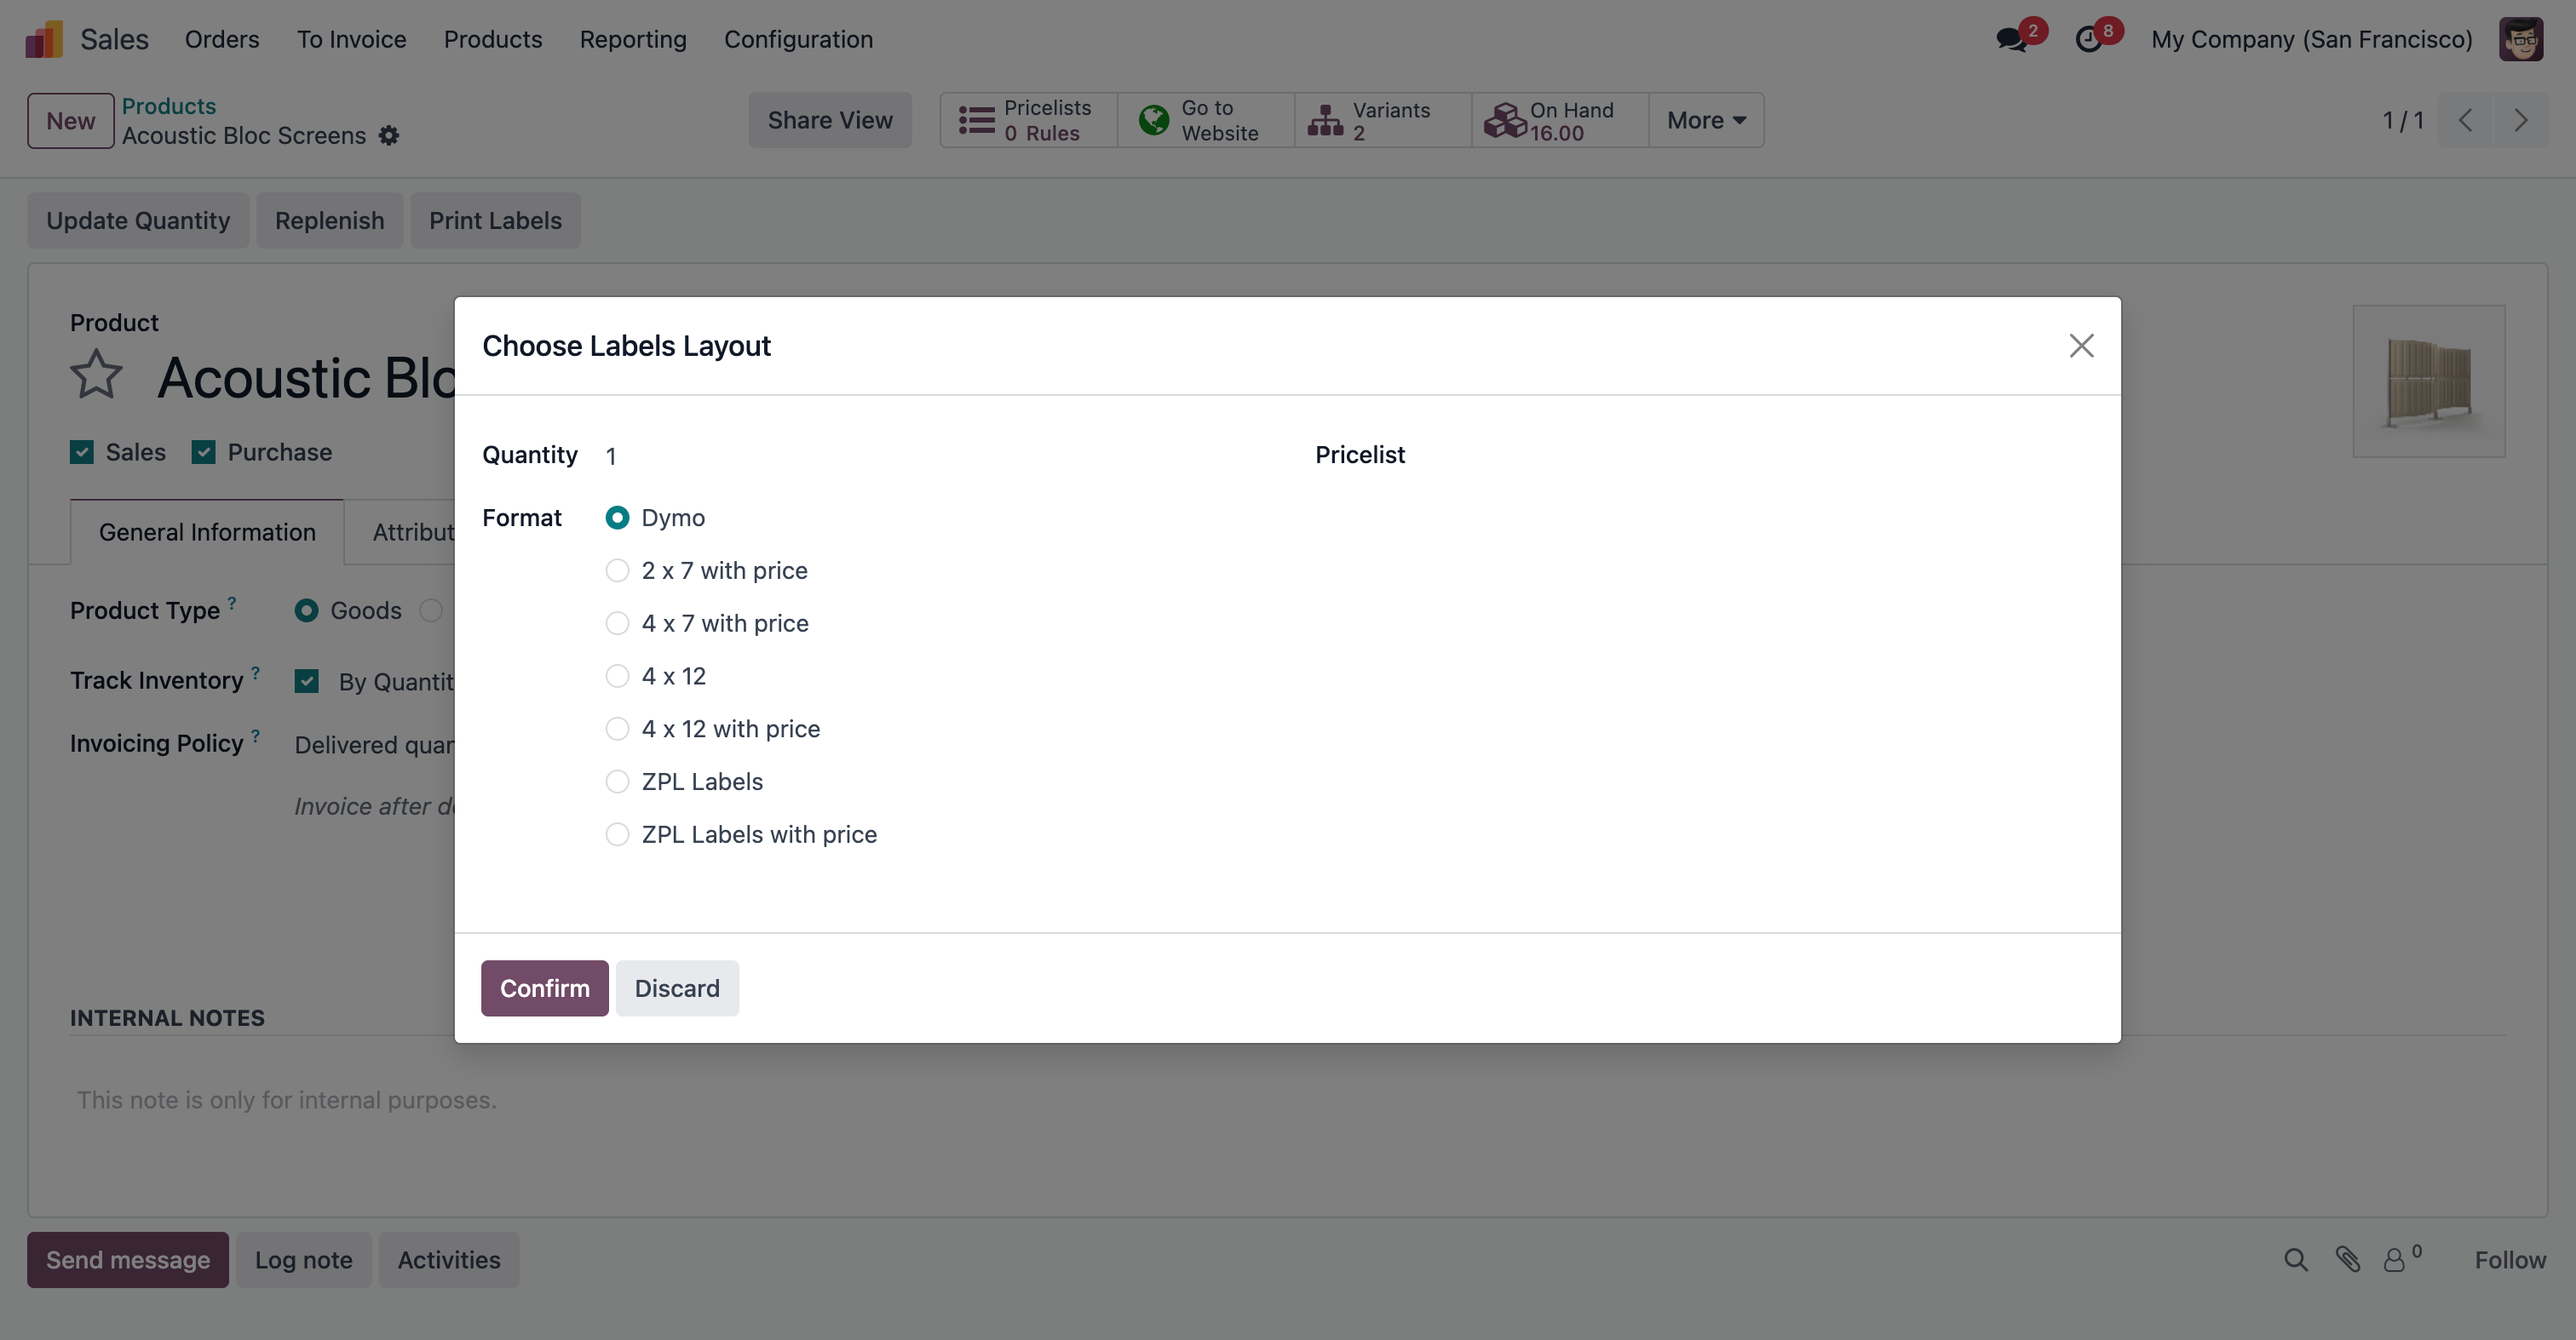
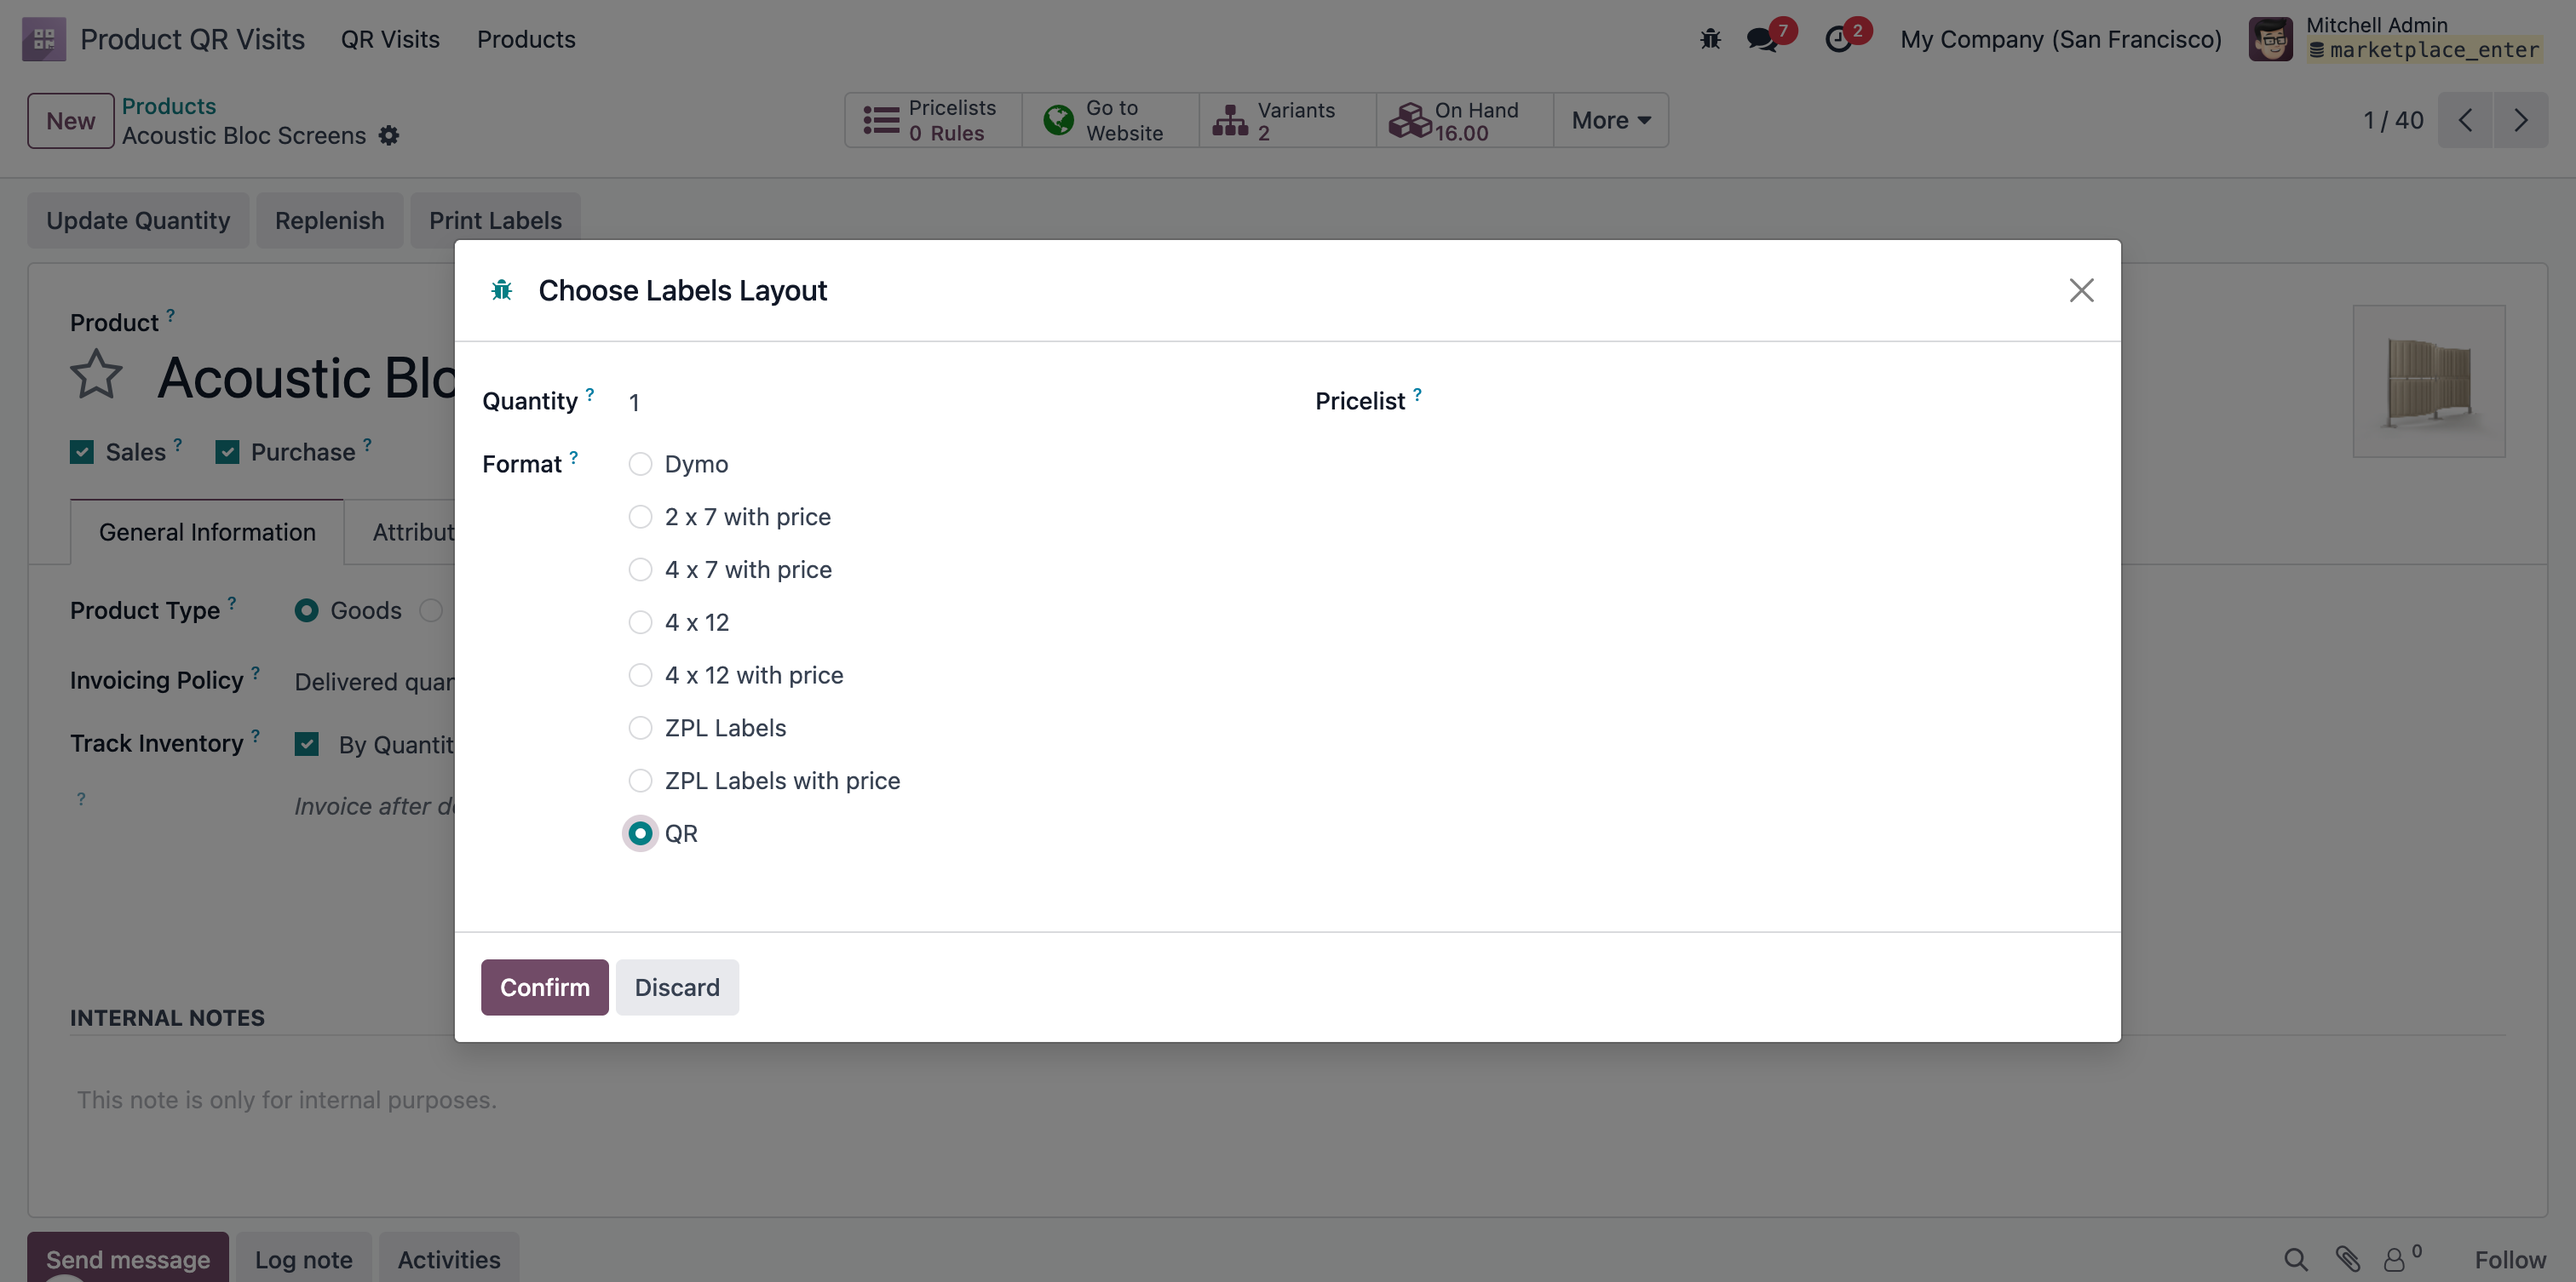
[REM, IMP] Remove share_view and update qr track index

diff --git a/product_qr_track/static/description/index.html b/product_qr_track/static/description/index.html
@@ -1,8 +1,8 @@
-<section class="oe_container pt16 mt16" style="margin-left:calc(-42vw + 50%); width:84%;">
+<section class="oe_container pt16 mt16 mx-auto" style="width:80%;">
     <div class="row o_equal_col_sm"
         style="max-width:1540px; margin:0 auto; background-color:#ebf2f8; padding-bottom:92px; border-radius:15px">
         <div class="" style="display:block; margin:0 auto; max-width:330px; width:80%;"><span
-                style="width:100%;; display:inline-block">
+                style="width:100%; display:inline-block;">
                 <img class="img img-responsive mt24 mb8" src="leofren_logo.svg" style="display:block; margin:0 auto">
             </span>
         </div>
@@ -49,47 +49,6 @@
         </div>
     </div>
 </section>
-<!--HIGHLIGHTS--->
-<!-- <section class="oe_container pb-5">
-    <div class="mt64 mb64">
-        <h2 style="color:#091E42; font-family:&quot;Montserrat&quot;; text-align:center; margin:25px auto; text-transform:uppercase"
-            class="oe_slogan">
-            <b>Highlights</b>
-        </h2>
-        <div class="row">
-            <div class="col-md-6 col-sm-12 mt32">
-                <div class="container shadow" style="border-radius:10px; padding:10px 0px">
-                    <div class="col-md-3" style="float:left">
-                        <img class="img img-responsive" src="screens/Connect-Multiple-Sites.png">
-                    </div>
-                    <div class="col-md-9" style="padding-left:0; float:left; width:70%;">
-                        <h3 class="mt16 mb0" style="font-family:Roboto; font-weight:500; font-size:22px">
-                            Dynamic Template
-                        </h3>
-                        <p class=" mt8" style="font-family:Roboto;">
-                            Integrate trackable link with QR code template.
-                        </p>
-                    </div>
-                </div>
-            </div>
-            <div class="col-md-6 col-sm-12 mt32">
-                <div class="container shadow" style="border-radius:10px; padding:10px 0px">
-                    <div class="col-md-3" style="float:left">
-                        <img class="img img-responsive" src="screens/Import-Orders.png">
-                    </div>
-                    <div class="col-md-9" style="padding-left:0; float:left; width:70%;">
-                        <h3 class="mt16 mb0" style="font-family:Roboto; font-weight:500; font-size:22px">
-                            Customer analytics
-                        </h3>
-                        <p class=" mt8" style="font-family:Roboto;">
-                            See the customer analytics list at the one place.
-                        </p>
-                    </div>
-                </div>
-            </div>
-        </div>
-    </div>
-</section> -->
 <!-- Notebook -->
 <section class="oe_container mt32 mb32" style="margin-left:calc(-42vw + 50%); width:84vw">
     <div id="loempia_tabs" class="row" style="max-width:1540px; margin:0 auto; padding-bottom:64px; border-radius:15px">
@@ -98,28 +57,20 @@
             <!-- Features -->
             <li class="nav-item"
                 style="border-top-right-radius:10px; border-top-left-radius:10px; background-color:#e6f6ff; margin-right:10px; border:1px solid #ddd; border-bottom:0">
-                <a href="#lf_features" data-bs-toggle="tab" aria-expanded="true" class="show"
+                <a href="#lf_features" data-bs-toggle="tab" aria-expanded="true" class="show active"
                     style="font-family:Roboto; text-transform:uppercase; font-weight:600; font-size:15px; letter-spacing:1px; padding:11px 20px; border-top-left-radius:10px; border-top-right-radius:10px; color:#2b2b2b; border:1px solid transparent">
                     <img src="key_feature.svg" style="width:18px; margin-top:-4px; margin-right:6px" />
                     Features
                 </a>
-                <span class="border-left-0"
-                    style="float:left; margin-top:-4px; margin-left:-5px; width:5px; height:5px; border:1px solid #ddd; border-top:0; border-radius:0 0 5px 0"></span>
-                <span class="border-right-0"
-                    style="float:right; margin-top:-4px; margin-right:-5px; width:5px; height:5px; border:1px solid #ddd; border-top:0; border-radius:0 0 0 5px"></span>
             </li>
             <!-- Screenshots -->
             <li class="nav-item"
                 style="border-top-right-radius:10px; border-top-left-radius:10px; background-color:#e6f6ff; margin-right:10px; border:1px solid #ddd; border-bottom:0">
-                <a href="#screenshots" data-bs-toggle="tab" aria-expanded="true" class="show active"
+                <a href="#screenshots" data-bs-toggle="tab" aria-expanded="true" class="show"
                     style="font-family:Roboto; text-transform:uppercase; font-weight:600; font-size:15px; letter-spacing:1px; padding:11px 20px; border-top-left-radius:10px; border-top-right-radius:10px; color:#2b2b2b; border:1px solid transparent">
                     <img src="screen_shot.svg" style="width:18px; margin-top:-4px; margin-right:6px" />
                     Screenshots
                 </a>
-                <span class="border-left-0"
-                    style="float:left; margin-top:-4px; margin-left:-5px; width:5px; height:5px; border:1px solid #ddd; border-top:0; border-radius:0 0 5px 0"></span>
-                <span class="border-right-0"
-                    style="float:right; margin-top:-4px; margin-right:-5px; width:5px; height:5px; border:1px solid #ddd; border-top:0; border-radius:0 0 0 5px"></span>
             </li>
             <!-- User Guide -->
             <li class="nav-item"
@@ -129,10 +80,6 @@
                     <img src="support.svg" style="width:18px; margin-top:-4px; margin-right:6px" />
                     Support
                 </a>
-                <span class="border-left-0"
-                    style="float:left; margin-top:-4px; margin-left:-5px; width:5px; height:5px; border:1px solid #ddd; border-top:0; border-radius:0 0 5px 0"></span>
-                <span class="border-right-0"
-                    style="float:right; margin-top:-4px; margin-right:-5px; width:5px; height:5px; border:1px solid #ddd; border-top:0; border-radius:0 0 0 5px"></span>
             </li>
             <!-- FAQs -->
             <li class="nav-item"
@@ -142,16 +89,12 @@
                     <img src="" style="width:18px; margin-top:-4px; margin-right:6px" />
                     FAQs
                 </a>
-                <span class="border-left-0"
-                    style="float:left; margin-top:-4px; margin-left:-5px; width:5px; height:5px; border:1px solid #ddd; border-top:0; border-radius:0 0 5px 0"></span>
-                <span class="border-right-0"
-                    style="float:right; margin-top:-4px; margin-right:-5px; width:5px; height:5px; border:1px solid #ddd; border-top:0; border-radius:0 0 0 5px"></span>
             </li>
         </ul>
         <div class="container-fluid" style="border:1px solid #eee; border-radius:10px">
             <div class="tab-content container pt-3" id="tabs_content">
                 <!-- Features Tabs -->
-                <div class="tab-pane" id="lf_features">
+                <div class="tab-pane show active" id="lf_features">
                     <div class="container mt48">
                         <section id="other-legal-references">
                             <h3 class="text-center alert"
@@ -198,12 +141,12 @@
                         </section>
                     </div>
                 </div>
-                <div class="tab-pane active show" id="screenshots">
+                <div class="tab-pane" id="screenshots">
                     <section class="oe_container mt48">
                         <div style="margin-bottom:4%;">
                             <h3 class="text-center mb32"
                                 style="letter-spacing: -1px !important;font-family: Roboto;font-weight:400;">
-                                Dymo Label Print
+                                QR Print
                             </h3>
                             <div class="mt16 mb16">
                                 <img src="screenshots/print_dymo_label.png" class="img img-fluid center-block"
